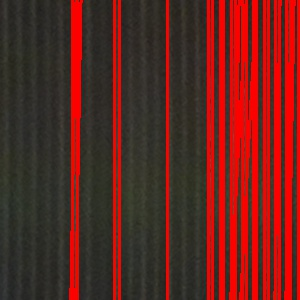
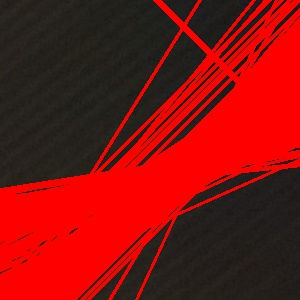
Adds detection of change of song

diff --git a/utils.py b/utils.py
@@ -6,8 +6,12 @@
 import cv2
 import numpy as np
 import matplotlib.pyplot as plt
+import numpy.polynomial.polynomial as poly
 import time
 import math
+
+MIN_GAP_SONG = 30
+AVG_WIDTH_FURROW = 16
 
 
 def get_canny_configuration(gray):
@@ -84,6 +88,96 @@ def canny_direction(img, gray,threshold_down, threshold_up):
     my_std = np.std(direction)*180/np.pi
     print('Direction :', my_direction, '±', my_std)
     return my_direction, len(lines)
+    
+def polyfit(total_bright):
+    x = list(range(len(total_bright)))
+    coefs = poly.polyfit(x, total_bright, 5)
+    y_base = poly.polyval(x, coefs)
+    plt.figure(1)
+    plt.plot(x, total_bright, 'r--')
+    plt.plot(x, y_base)
+    plt.show()
+    
+    y = total_bright - y_base
+    y = [i+128 for i in y]
+    plt.figure(2)
+    plt.title('Intensity profile')
+    plt.plot(range(len(total_bright)), y)
+    plt.show()
+    
+    plt.plot(range(len(total_bright)), [softmax(i) for i in y])
+    plt.title('New intensity profile')
+    plt.show()
+    
+    detection = [softmax(i) for i in y]
+
+    return detection
+    
+def exacerbate(total_bright):
+    x = list(range(len(total_bright)))
+    
+    y_base = []
+    width = int(AVG_WIDTH_FURROW/2)
+    for i in range(len(total_bright)):
+        y_base.append(np.mean(total_bright[max(0, i-width):min(len(total_bright)-1, i+width)]))
+    
+    plt.figure(1)
+    plt.plot(x, total_bright, 'r--')
+    plt.plot(x, y_base)
+    plt.show()
+    
+    y = [tot - base for tot, base in zip(total_bright, y_base)]
+    y = [i+128 for i in y]
+    plt.figure(2)
+    plt.title('Intensity profile')
+    plt.plot(range(len(total_bright)), y)
+    plt.show()
+    
+    plt.plot(range(len(total_bright)), [softmax(i) for i in y])
+    plt.title('New intensity profile')
+    plt.show()
+    
+    detection = [softmax(i) for i in y]
+
+    return detection
+    
+def compute_fringes_from_profile(detection):
+    fringes = []
+    for i in range(len(detection)):
+        # saving start of anomaly with default end
+        if detection[i] > 128 and (i == 0 or detection[i-1] <= 128):
+            fringes.append([i, len(detection)-1])
+        # saving end of anomaly in last elmt
+        if detection[i] <= 128 and detection[i-1] > 128:
+            if(len(fringes)-1 >= 0):
+                fringes[len(fringes)-1][1] = i
+    return fringes
+    
+def has_change_of_song(fringes):
+    for fringe1, fringe2 in zip(fringes[:-1], fringes[1:]):
+        if fringe2[0] - fringe1[1] > MIN_GAP_SONG:
+            return (fringe1[1], fringe2[0])
+    return False
+    
+def remove_forks(fringes):
+    ecart = [fringes[i+1]-fringes[i] for i in range(len(fringes)-1)]
+    mean = np.mean(ecart)
+    forks = [ i  for i, e in enumerate(ecart) if e < 2*mean/3]
+    pos = fringes[0]
+    fringes = [fringes[0]]
+    for i, e in enumerate(ecart):
+        if i+1 in forks:
+            pos += (ecart[i] + int(ecart[i+1]/2))
+            fringes.append(pos)
+        elif i in forks:
+            pass
+        elif i-1 in forks:
+            pos += (ecart[i] + ecart[i-1] - int(ecart[i-1]/2))
+            fringes.append(pos)
+        else:
+            pos += ecart[i]
+            fringes.append(pos)
+    return fringes
     
 def load_image(path):
     return cv2.imread(path)

diff --git a/hough.py b/hough.py
@@ -9,14 +9,15 @@ Created on Sat May 13 14:20:58 2017
 import cv2
 import numpy as np
 import matplotlib.pyplot as plt
-import numpy.polynomial.polynomial as poly
 import time
 import math
 
 from utils import *
 
+
 #Should have shape > 600x600
-path = 'sillons_cadres/sillon14.png'
+path = 'sillons_cadres/sillon23.png'
+path = 'sillons_2/sillon20.jpg'
 
 start_time = time.time()
 
@@ -70,45 +71,39 @@ show_image(img, 'Croped image')
 h, w, _ = img.shape
 
 total_bright = [np.mean(img[:, i]) for i in range(w)]
-x = list(range(len(total_bright)))
-coefs = poly.polyfit(x, total_bright, 5)
-y_base = poly.polyval(x, coefs)
-plt.figure(1)
-plt.plot(x, total_bright, 'r--')
-plt.plot(x, y_base)
-plt.show()
 
-y = total_bright - y_base
-y = [i+128 for i in y]
-plt.figure(2)
-plt.plot(range(len(total_bright)), y, 'r--')
-plt.show()
+# Polyfit and exacerbate have the same role, but polyfit 
+# excels in detecting gap between songs et exarcerbate in detecting
+# small furrows
+detection = polyfit(total_bright)
+fringes = compute_fringes_from_profile(detection)
 
-plt.plot(range(w), [np.mean(img[:, i]) for i in range(w)])
-plt.title('Intensity profile')
-plt.show()
+## detection of gap betwen songs
+if has_change_of_song(fringes) is not False:
+    end_song, start_song = has_change_of_song(fringes)
+    print('gap detected', end_song, start_song, end_song - start_song)
+    print('END OF SONG')
+    detection1 = exacerbate(total_bright[:end_song])
+    fringes1 = compute_fringes_from_profile(detection1)
+    fringes1 = [round((e[0]+e[1])/2) for e in fringes1] 
+    print('START OF SONG')
+    detection2 = exacerbate(total_bright[start_song:])
+    fringes2 = compute_fringes_from_profile(detection2)
+    fringes2 = [round((e[0]+e[1])/2) for e in fringes2]
+    print('There are', len(fringes1), 'sillons in the last song')
+    print('There is a change of song')
+    print('There are', len(fringes2), 'sillons in the new song')
+    
+else:
+    detection = exacerbate(total_bright)
+    fringes = compute_fringes_from_profile(detection)
+    fringes = [round((e[0]+e[1])/2) for e in fringes]  
+    #fringes = remove_forks(fringes)    
+    print(fringes)
+    
+    
+    print('There are', len(fringes), 'sillons')
 
-plt.plot(range(w), [softmax(i) for i in y])
-plt.title('New intensity profile')
-plt.show()
-
-detection = [softmax(i) for i in y]
-
-fringes = []
-for i in range(len(detection)):
-    # saving start of anomaly with default end
-    if detection[i] > 128 and (i == 0 or detection[i-1] <= 128):
-        fringes.append([i, len(detection)-1])
-    # saving end of anomaly in last elmt
-    if detection[i] <= 128 and detection[i-1] > 128:
-        if(len(fringes)-1 >= 0):
-            fringes[len(fringes)-1][1] = i
-        
-fringes = [round((e[0]+e[1])/2) for e in fringes]      
-print(fringes)
-
-print('There are', len(fringes), 'sillons')
-
- nb_lines = canny_direction(img, gray, threshold['down'], threshold['up'])
+# nb_lines = canny_direction(img, gray, threshold['down'], threshold['up'])
 
 print(time.time() - start_time, 'seconds')
